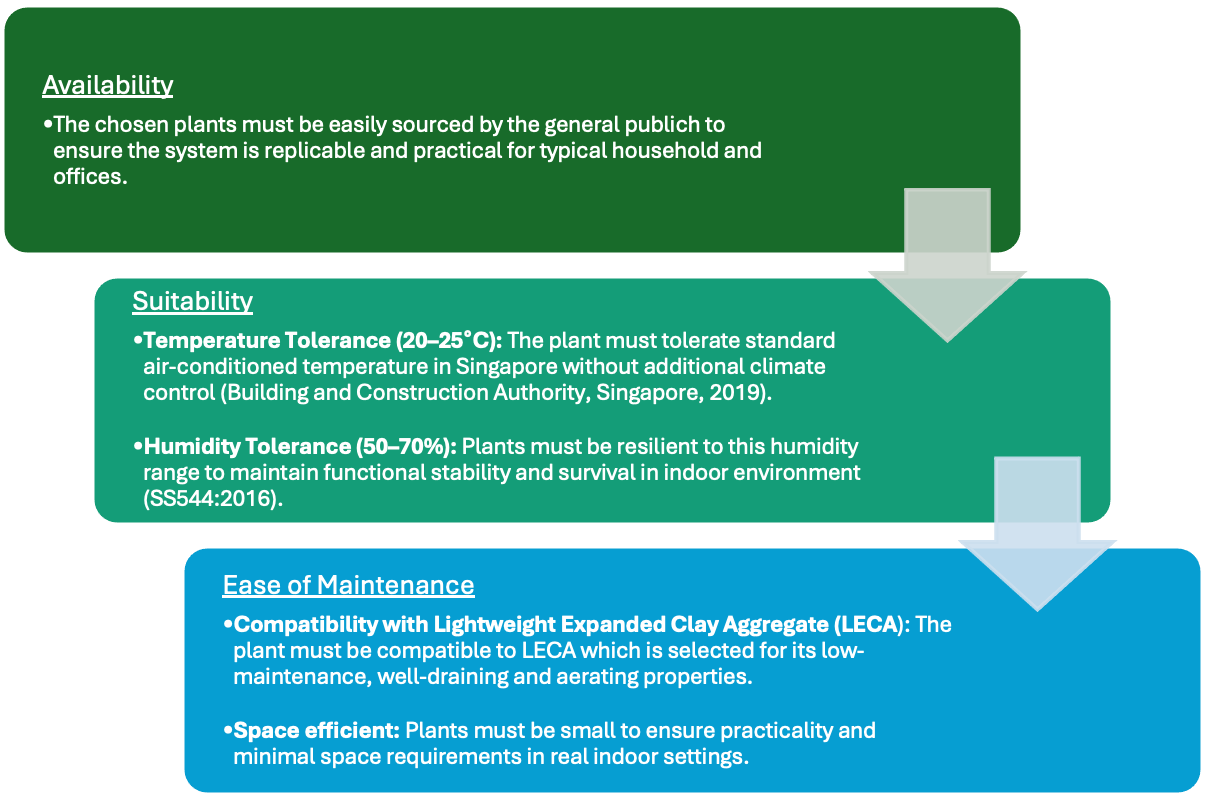
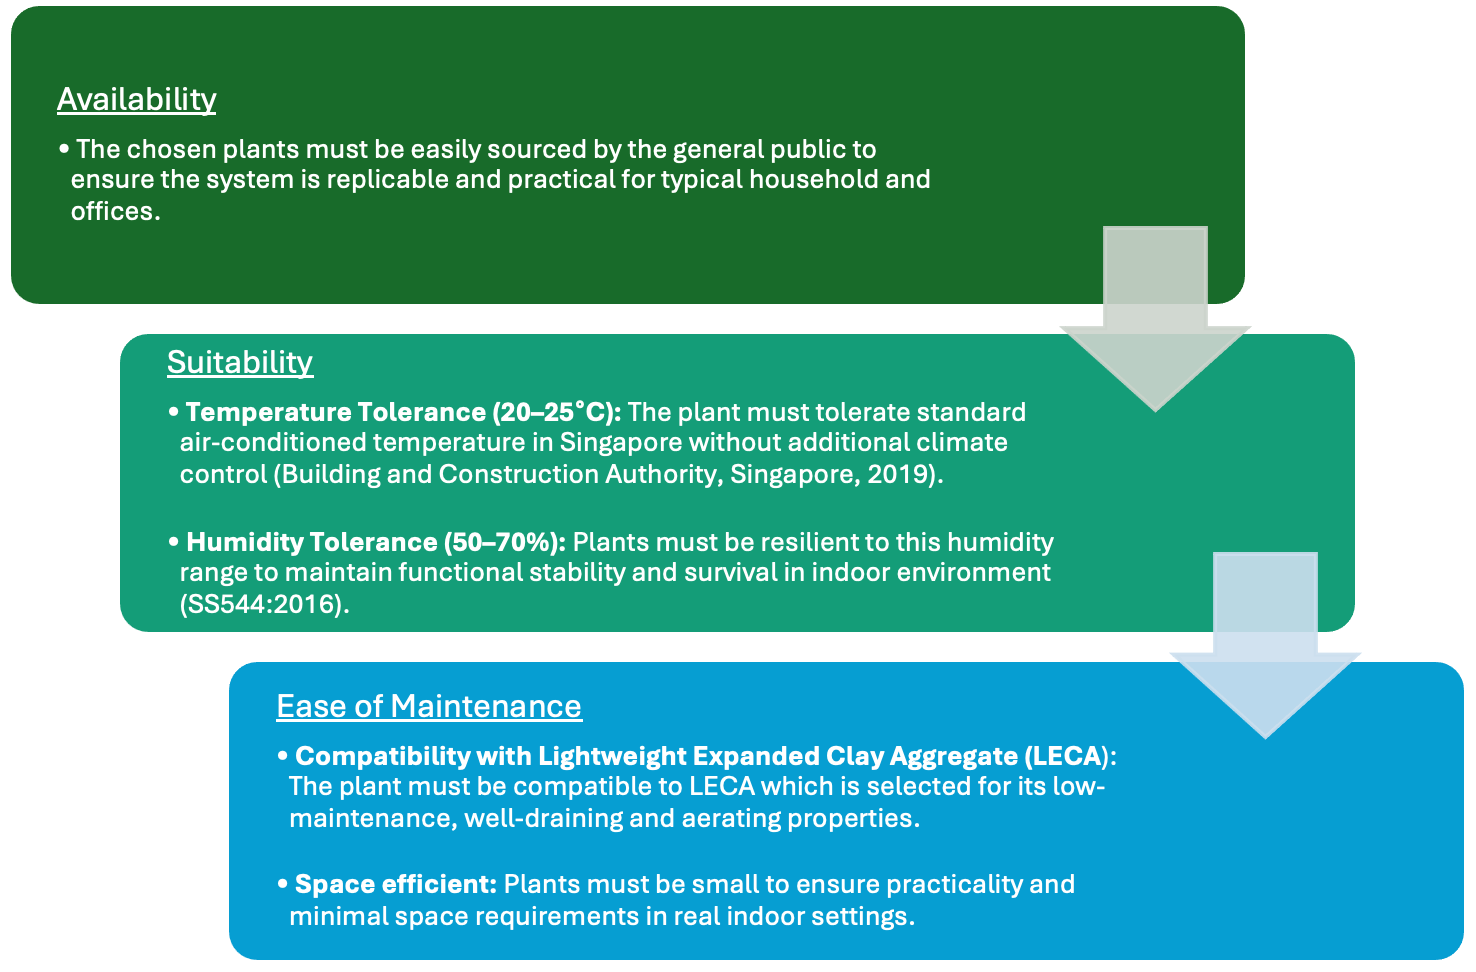
pearlyn second update - until pilot study framework

diff --git a/index.html b/index.html
@@ -214,6 +214,11 @@
         <p>
           Will we write an abstract here or Before Introduction? Don't think need. To discuss.
         </p>
+
+        <!-- This is an example of how you might use the table component -->
+        <table-component subtitle="Table: Demo table">
+          <div id="table-1"></div>
+        </table-component>
       </div>
     </div>
 
@@ -317,7 +322,7 @@
         <p style="text-align: center; font-weight: bold; margin: 1em 0;">
           “Which commercially available indoor plant and microbe pairing
           demonstrates the greatest VOC reduction efficiency among the five most common indoor VOCs
-          (formaldehyde, benzene, toluene, ethylbenzene, and xylene)?”
+          (Formaldehyde, Benzene, Toluene, Ethylbenzene, and Xylene)?”
         </p>
           By investigating this question, the project aims to identify an optimal
           plant–microbe combination that offers a sustainable, low-cost, and effective solution for improving indoor air quality
@@ -329,19 +334,14 @@
         <h3>2.2. Project Phases</h3>
         <p>
           To systematically address the research question, the study was structured into 5 sequential phases, as illustrated in
-          Figure X. Each phase builds upon the findings of the previous one to progressively narrow down the most effective
+          Figure 6. Each phase builds upon the findings of the previous one to progressively narrow down the most effective
           plant–microbe pairing for VOC removal. The overall research framework integrates plant screening, pilot testing, proof
           of concept validation, microbial identification, and final pairing evaluation to ensure a comprehensive and
           evidence-based approach.
         </p>
-
-        <!-- This is an example of how you might use the table component -->
-        <table-component subtitle="Table: Demo table">
-          <div id="table-1"></div>
-        </table-component>
-      </div>
+        <image-component tag="image" source="assets/2-Project Overview/Project Phases.png"
+          subtitle="Figure 6: Overview of the 5 Phases of the Research Methodology."></image-component>
     </div>
-
     <br />
     <br />
     <sl-divider></sl-divider> <!-- The horizontal line -->
@@ -363,14 +363,27 @@
           From this combined body of research, a comparative analysis was conducted to evaluate reported VOC removal efficiencies.
           Plant species that consistently demonstrated lower performance or limited removal capability were excluded, refining the
           pool to those with higher and more reliable purification potential.
+        </p>
           Following this performance-based screening, the remaining candidates were further evaluated according to a defined set
           of selection criteria — availability, suitability to Singapore’s indoor climate, and ease of maintenance. These criteria
           ensure that the shortlisted species are not only effective in VOC removal but also practical and sustainable for
-          long-term indoor application. The following diagram (Figure X) summarizes this selection framework.
-
+          long-term indoor application. The following diagram (Figure 7) summarizes this selection framework.
+        </p>
+          <image-component tag="image" source="assets/3-Plant Selection/Plant Selection Criteria.png"
+            subtitle="Figure 6: Hierarchy of the Selection Criteria for suitable plant species."></image-component>
+        </p>
+        This multi-stage selection process ensured that the final list of candidate plants not only demonstrated scientific
+        potential for VOC removal, but also satisfied practical considerations for real-world implementation in residential and
+        commercial indoor spaces.
+        </p>
+        Based on the established selection criteria, four plant species were shortlisted for subsequent testing in the pilot
+        study and proof-of-concept phases (Phase 2 and Phase 3): <i> Sansevieria trifasciata</i> (Snake Plant), <i> Epipremnum aureum</i> (Money
+        Plant), <i>Zamioculcas zamiifolia</i> (ZZ Plant), and <i> Dracaena fragrans</i> (Dragon Plant).
+        </p>
+          <image-component tag="image" source="assets/3-Plant Selection/Shortlisted Plants.png"
+            subtitle="Figure 8: Photos of Shortlisted Plant Species."></image-component>
         </p>
       </div>
-
     <br />
     <br />
 
@@ -396,19 +409,29 @@
         </p>
         By achieving these objectives, the pilot study generates critical insights that inform subsequent refinements to the
         experimental setup and strengthen the reliability of data analysis in later phases. The pilot study adopts a cyclical
-        experimental framework (Fig. X), beginning with the definition of key parameters such as pollutant dosage. Experiments
+        experimental framework (Figure 9), beginning with the definition of key parameters such as pollutant dosage. Experiments
         are then conducted and systematically evaluated to identify gaps, inconsistencies, or methodological limitations. Based
         on these observations, necessary adjustments are implemented, and the process is repeated until optimal experimental
         conditions are established — where pollutant concentrations fall within the sensor’s detection range while remaining
         sufficiently high to allow discernible differences in VOC removal efficiency.
         </p>
+          <image-component tag="image" source="assets/4-Pilot Study/Pilot Study Cycle.png"
+            subtitle="Figure 9: Pilot Study Experimental Framework."></image-component>
+        </p>  
       </div>
 
       <div id="4.1 Preparation of Experimental Set up">
         <h3>4.1. Preparation of Experimental Set Up</h3>
+        <p>
+          Before initiating the pilot study experiments, it was essential to carefully prepare each component of the experimental
+          setup to ensure consistency, reliability, and reproducibility of results. The preparation process includes multiple
+          elements: the chamber, plant containers, sensors, and pollutant sources. Detailed protocols for each component have been
+          documented to maintain standardized conditions across all experimental runs. Click on a component to view the
+          corresponding setup procedure, materials, and considerations.
+        </p>
         <!-- Interactive Image Component -->
         <interactive-image tag="experimental-setup" source="assets/4-Pilot Study/set-up_actualD1.png"
-          subtitle="Figure 4.1: Experimental Setup Design - Click the + buttons to learn more">
+          subtitle="Figure 10: Experimental Setup Design - Click the + buttons to learn more">
         </interactive-image>
 
         <script>
